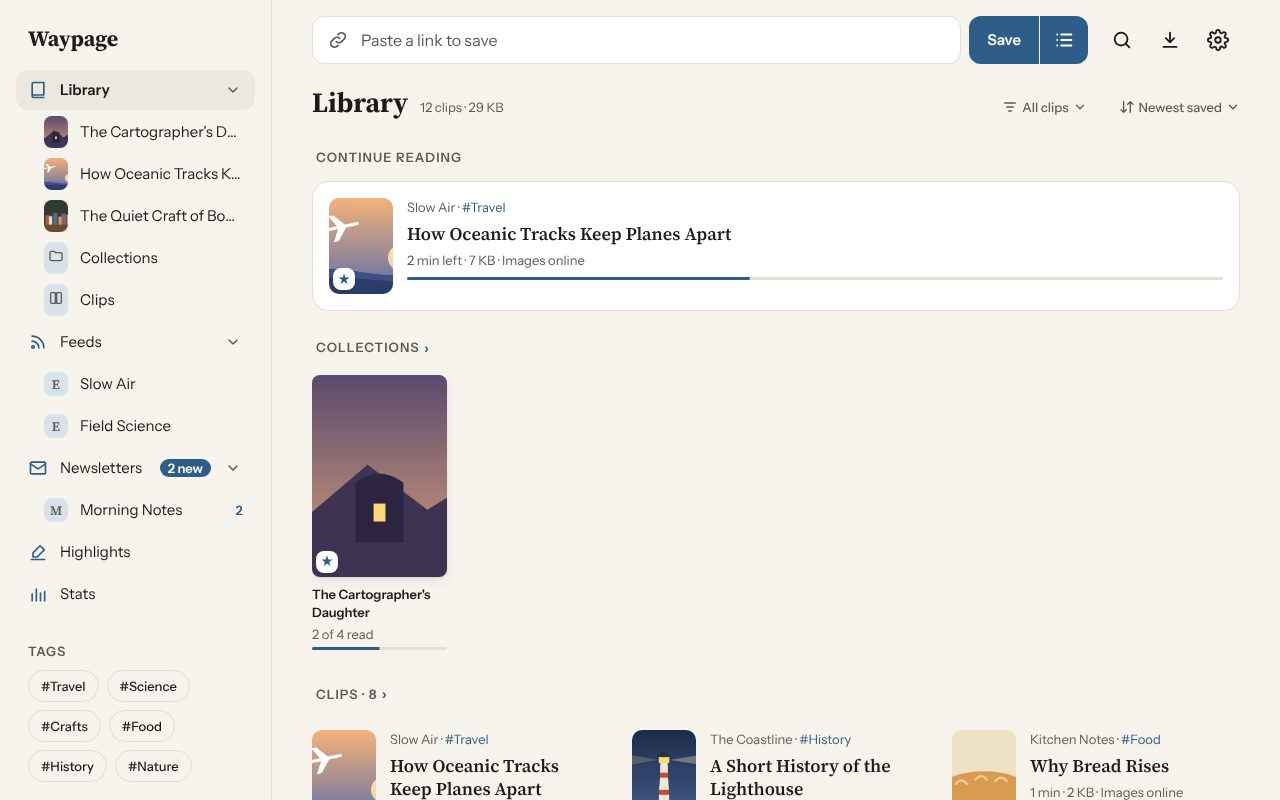
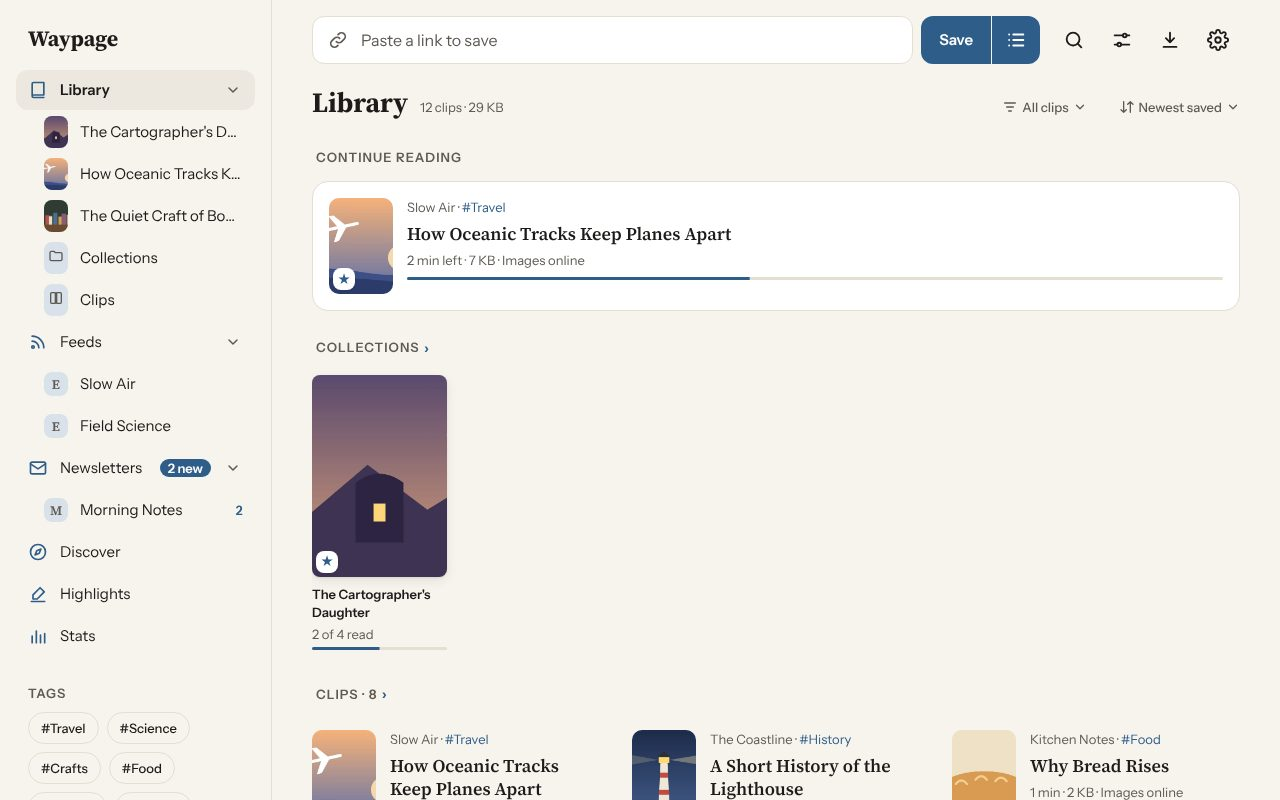
Library: a View button for its layout and Continue reading (#242)
* Library: a View button for its layout and Continue reading

Discover already had a View button in the top bar; the library now shows
it too once there are clips. Its sheet holds the Layout picker (Shelf,
One list, Grid) that was only in Settings, Library, and the Continue
reading switch. Under 420 px the top bar drops the spaces between its
44 px icons so "Library" still fits on a 390 px phone with Sync on.

Claude-Session: https://claude.ai/code/session_01CFeKri7uBx3ngZEJRUNTRV

* README: retake the library shots with the View button

Claude-Session: https://claude.ai/code/session_01CFeKri7uBx3ngZEJRUNTRV

---------

diff --git a/test/ui.test.js b/test/ui.test.js
@@ -1382,6 +1382,32 @@ function zipOf(files) {
       await q.context().close();
     });
 
+    await test("the library's View button changes its layout, and shows only over clips", async () => {
+      const q = await page(browser, 360);
+      assert.ok(await q.locator("#viewBtn").isHidden(), "no clips, no View");
+      await q.evaluate(async () => {
+        localStorage.setItem("waypage.layout", JSON.stringify("shelf"));
+        const c = (i) => ({ id: "lv" + i, url: "https://example.com/lv" + i, title: "Clip " + i, site: "example.com", savedAt: 1000 + i, minutes: 1, mode: "links", at: 0, finished: false });
+        await window.Waypage.store.writeIndex([c(1), c(2), c(3)]);
+      });
+      await q.reload();
+      await q.waitForSelector("#library [data-key]");
+      await q.locator("#viewBtn").click();
+      const grid = q.locator('#menuSheet:not([hidden]) .seg-item:has-text("Grid")');
+      await grid.waitFor();
+      await grid.click();
+      await q.waitForFunction(() => JSON.parse(localStorage.getItem("waypage.layout")) === "grid");
+      assert.match(await q.locator("#menuSheet .lib-view .choice-note").first().textContent(), /three across/);
+      const top = await q.evaluate(() => { const r = document.querySelector("#topBar").getBoundingClientRect(); return { w: document.documentElement.scrollWidth, h: r.height }; });
+      assert.ok(top.w <= 360, "the bar fits a small phone: " + JSON.stringify(top));
+      await q.evaluate(() => history.back());
+      await q.waitForFunction(() => !state.menu);
+      await q.evaluate(() => goPlace("feeds"));
+      assert.ok(await q.locator("#viewBtn").isHidden(), "Feeds has no view options");
+      assert.deepStrictEqual(q.errors, [], q.errors.join(" | "));
+      await q.context().close();
+    });
+
     await test("Keep the screen on holds only while reading aloud speaks (1.24.0)", async () => {
       const q = await page(browser, 390);
       const got = await q.evaluate(async () => {

diff --git a/src/styles.css b/src/styles.css
@@ -306,6 +306,13 @@ html.native .top-bar { padding-top: calc(var(--s-2) + env(safe-area-inset-top));
 }
 .top-actions { display: flex; gap: var(--s-1); flex-shrink: 0; margin-inline-start: auto; }
 .top-actions [hidden] { display: none; }
+/* Five icons (with Sync and View) leave "Library" room on a 390 px phone
+   only with the spaces between them taken out; each stays 44 px. */
+@media (max-width: 419px) {
+  #topBar { gap: var(--s-1); }
+  #topBar .screen-title { margin-left: 0; }
+  .top-actions { gap: 0; }
+}
 .meta { margin: var(--s-1) 0 0; font-size: var(--fs-meta); line-height: var(--lh-meta); color: var(--muted); }
 
 .icon-btn {
@@ -595,7 +602,7 @@ html.native .reader-bar { padding-top: calc(var(--s-2) + env(safe-area-inset-top
 /* With Settings opened over the clip (app-settings.js). */
 .reader.under { z-index: 9; }
 .icon-btn[hidden] { display: none; }
-:root[data-clips="had"] #searchBtn[hidden] { display: inline-flex; }
+:root[data-clips="had"] #searchBtn[hidden], :root[data-clips="had"] #libraryView[data-place="library"] #viewBtn[hidden] { display: inline-flex; }
 #readerAa[aria-expanded="true"] { background: var(--line); }
 .aloud-btn[aria-pressed="true"] { color: var(--accent); background: var(--line); }
 

diff --git a/src/app-search.js b/src/app-search.js
@@ -172,6 +172,21 @@ function sortControl() {
   });
 }
 
+// The library's View button: its layout, here as in Settings, Library.
+function libViewSheet() {
+  const note = el("p", { class: "choice-note" }, (LAYOUTS.find((l) => l.value === layout()) || LAYOUTS[0]).note);
+  return el("div", { class: "page-controls lib-view" },
+    el("h2", { class: "menu-title" }, "View options"),
+    el("div", { class: "group" }, el("div", { class: "rc-list" },
+      seg("libViewLayout", "Layout", LAYOUTS.map((l) => ({ value: l.value, label: l.label })), layout(), (v) => {
+        store(LAYOUT_KEY, v);
+        note.textContent = LAYOUTS.find((l) => l.value === v).note;
+        renderLibrary();
+      }), note)),
+    el("div", { class: "group" },
+      switchRow("Continue reading", "Your last clip at the top of the library", load(CONTINUE_KEY, true), (on) => { store(CONTINUE_KEY, on); renderLibrary(); })));
+}
+
 // Our own dropdown (0.26.0), in place of the system's <select>: a
 // button showing the choice, and a small menu that arrives under it.
 // Arrow keys move through it, Escape or a tap outside puts it away.

diff --git a/src/app-saving.js b/src/app-saving.js
@@ -1622,7 +1622,7 @@ function paintPlace() {
   document.querySelector('label[for="saveUrl"]').textContent = feedsOn ? "Site or feed" : mailOn ? "New address's name" : "Page link";
   $("saveForm").querySelector(".btn-primary").textContent = feedsOn ? "Follow" : mailOn ? "Make" : "Save";
   $("severalBtn").hidden = feedsOn || mailOn || findOn;
-  $("viewBtn").hidden = !findOn;
+  $("viewBtn").hidden = !findOn && (state.place !== "library" || !state.pages.length);
   if (feedsOn || mailOn || marksOn || readOn || findOn) { if (state.query) clearSearch(); }
   if (feedsOn) renderFeeds();
   else if (mailOn) renderNewsletters();

diff --git a/src/app-discover.js b/src/app-discover.js
@@ -488,9 +488,10 @@ function dzViewSheet() {
         if (on) dzReadWiki();
       })));
 }
-$("viewBtn").addEventListener("click", () => { if (state.place === "discover") openMenu("discoverView"); });
+$("viewBtn").addEventListener("click", () => openMenu(state.place === "discover" ? "discoverView" : "libView"));
 
 MENUS.discoverView = { label: "View options", build: () => dzViewSheet() };
+MENUS.libView = { label: "View options", build: () => libViewSheet() };
 MENUS.story = { label: "Story", build: () => storySheet() };
 MENUS.signup = { label: "Sign up", build: () => signupSheet() };
 

diff --git a/test/discover.test.js b/test/discover.test.js
@@ -533,7 +533,6 @@ async function phone(browser) {
         Waypage.platform.fetchText = async (url) => { window.asked.push(url); return { status: 200, url, text: /wikipedia\.org/.test(url) ? wiki : "" }; };
         goPlace("library");
       }, [fixture("wiki-featured.json")]);
-      assert.ok(await p.locator("#viewBtn").isHidden(), "only Discover has view options");
       await p.evaluate(() => goPlace("discover"));
       await p.locator("#discover .dz-wiki").waitFor();
       await p.locator("#viewBtn").click();

diff --git a/src/app-draw.js b/src/app-draw.js
@@ -179,6 +179,7 @@ function renderLibrary() {
   // showed for the second it took, as if there were no clips.
   $("libraryMeta").textContent = n ? pagesLine(n) : loaded ? "Nothing saved yet" : "";
   $("searchBtn").hidden = !n;
+  if (state.place === "library") $("viewBtn").hidden = !n;
   // boot.js showed Search from the first frame if the last start had
   // clips, so the bar doesn't shift when they arrive; now it's known.
   if (loaded) delete document.documentElement.dataset.clips;

diff --git a/DESIGN.md b/DESIGN.md
@@ -164,9 +164,10 @@ and the page shows above it.
 - **Library (Now, 0.27.7):** a bar that stays while the list scrolls
   under it: the title, then Search (a magnifier, which opens the field
   under the bar and focuses it; `--line` behind it while open, 0.27.10),
-  Sync (a cloud, only with sync on, 1.13.0), Downloads (an arrow into
-  a tray, 0.27.9) and Settings (a gear), 44 px
-  icons; a hairline under the bar once the list is under it. Above
+  View (sliders, once there are clips: a sheet with the Layout picker
+  and Continue reading), Sync (a cloud, only with sync on, 1.13.0),
+  Downloads (an arrow into a tray, 0.27.9) and Settings (a gear), 44 px
+  icons, with no space between them under 420 px; a hairline under the bar once the list is under it. Above
   the bar `--s-5` scrolls away (on the phone, the safe area instead).
   Under it, scrolling away: the count, search (only once opened, and
   while something is typed in it), then Show and Order on one row (Select

diff --git a/changes/feature-library-view-button.md b/changes/feature-library-view-button.md
@@ -1,0 +1,2 @@
+### Added
+- A View button in the library's top bar, as Discover has: it picks the library's layout (Shelf, One list or Grid) and turns Continue reading on or off, without going into Settings.
